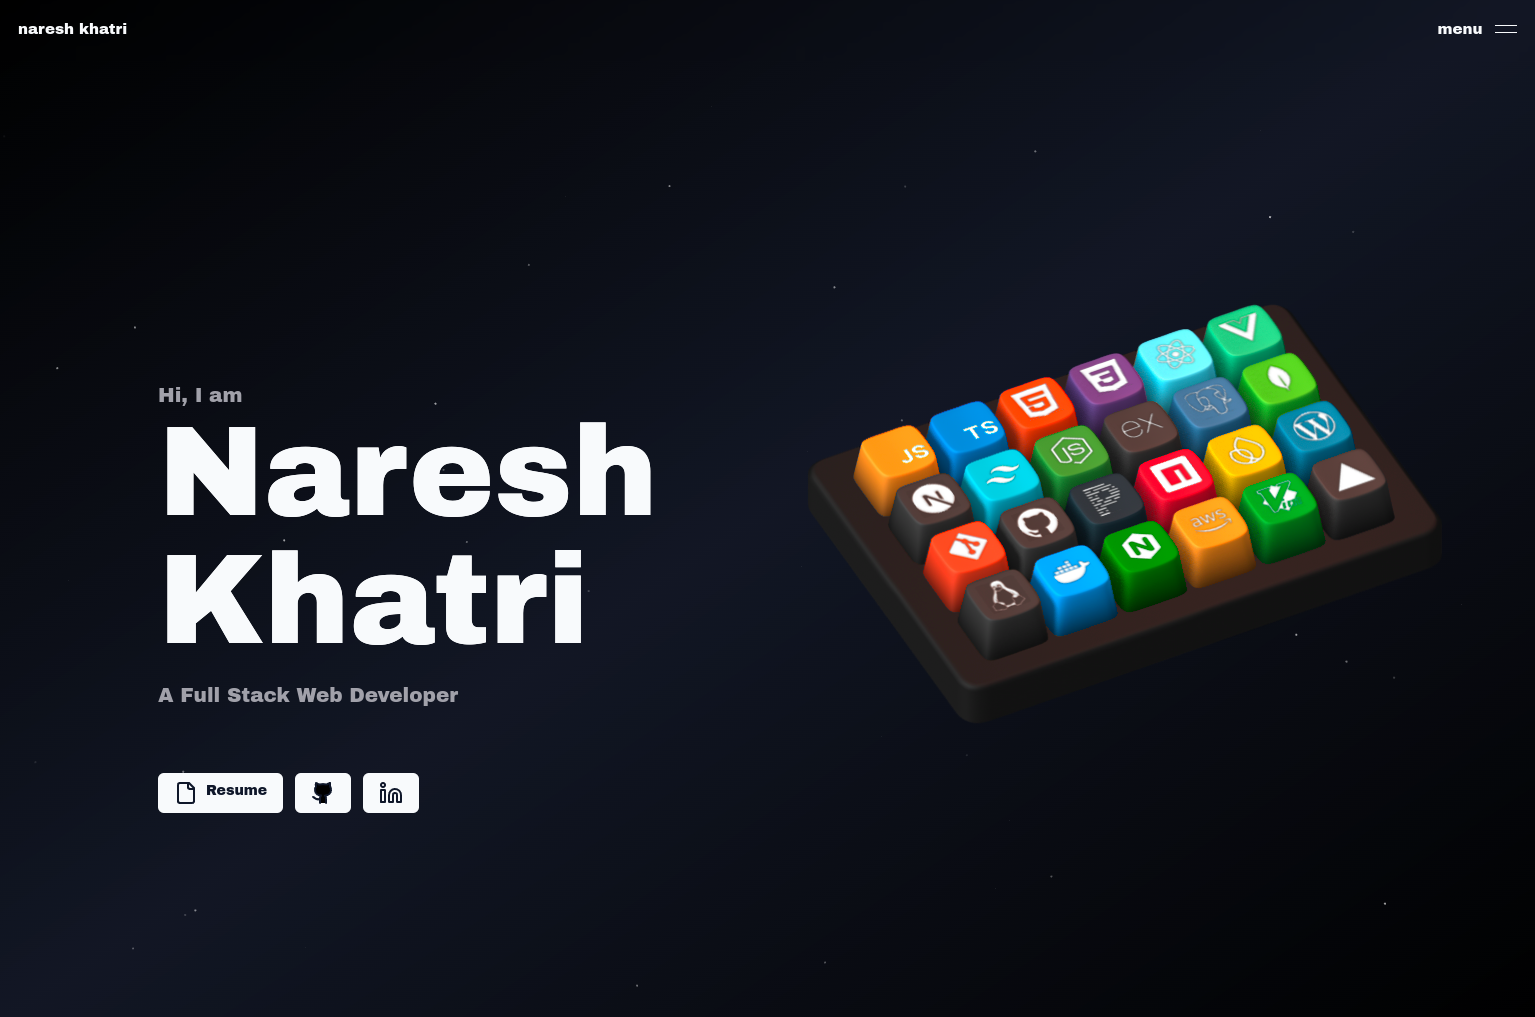
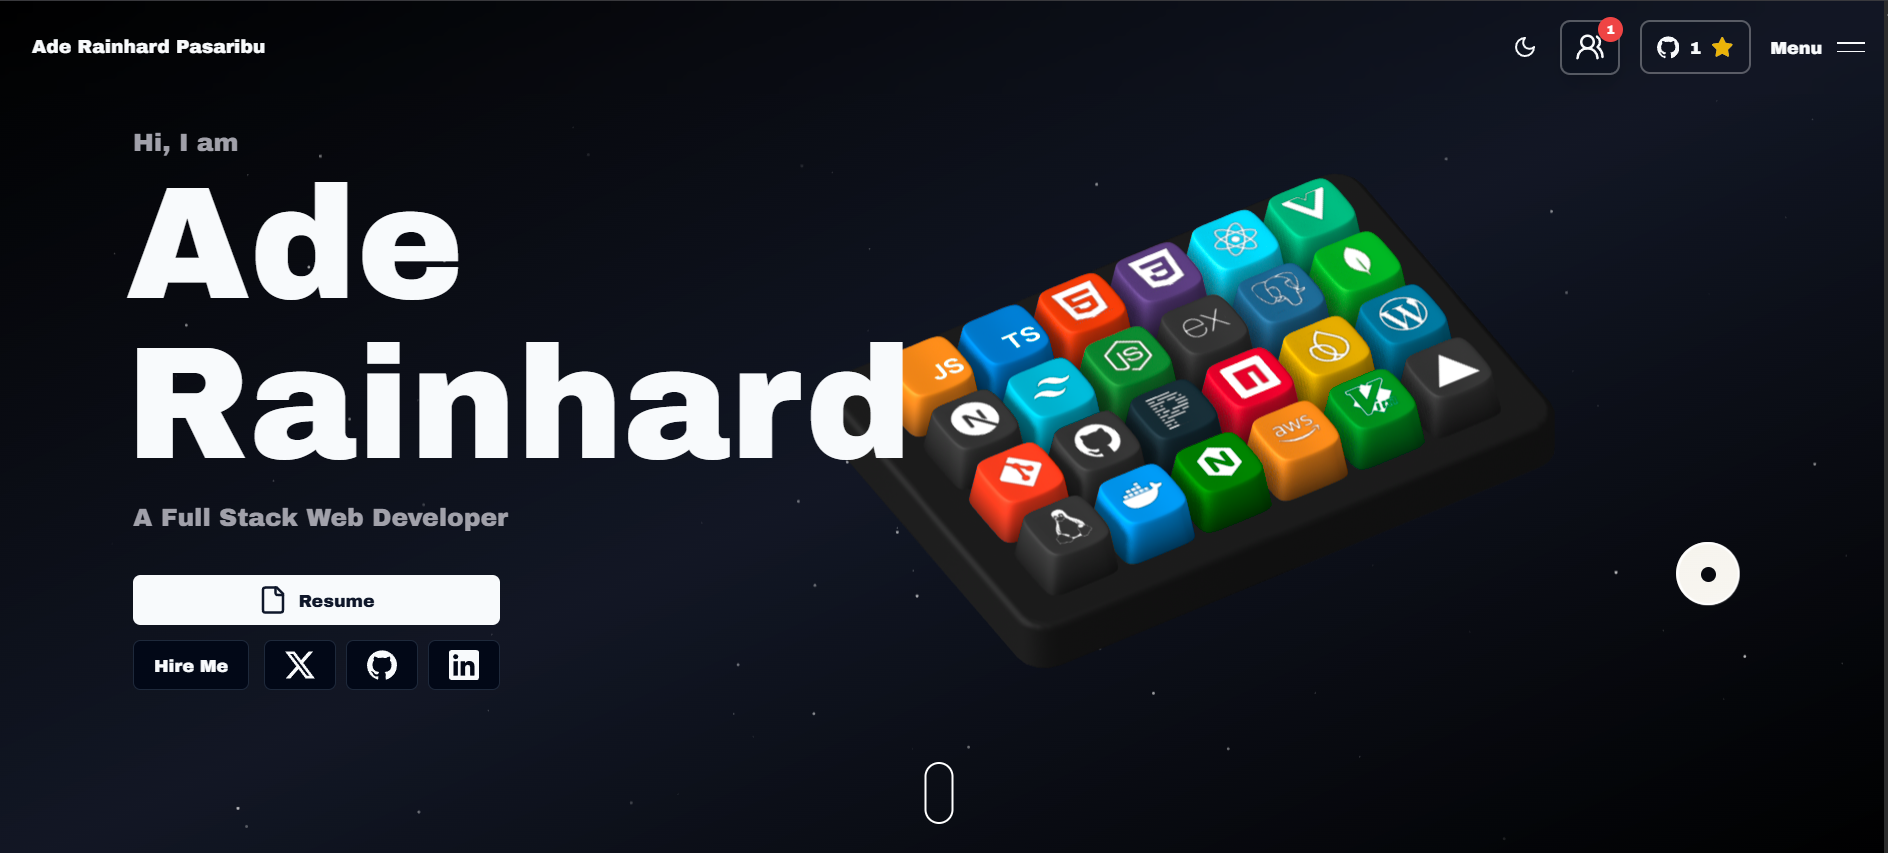
Update portfolio landing preview

diff --git a/src/components/sections/hero.tsx b/src/components/sections/hero.tsx
@@ -8,7 +8,6 @@ import {
   TooltipContent,
   TooltipTrigger,
 } from "@/components/ui/tooltip";
-import { usePreloader } from "../preloader";
 import { BlurIn, BoxReveal } from "../reveal-animations";
 import ScrollDownIcon from "../scroll-down-icon";
 import { SiGithub, SiLinkedin, SiX } from "react-icons/si";
@@ -17,7 +16,6 @@ import { config } from "@/data/config";
 import SectionWrapper from "../ui/section-wrapper";
 
 const HeroSection = () => {
-  const { isLoading } = usePreloader();
   const heroName = "Ade Rainhard";
 
   return (
@@ -31,7 +29,6 @@ const HeroSection = () => {
             "pt-28 sm:pb-16 md:p-20 lg:p-24 xl:p-28"
           )}
         >
-          {!isLoading && (
             <div className="flex flex-col">
               <div>
                 <BlurIn delay={0.7}>
@@ -140,7 +137,6 @@ const HeroSection = () => {
                 </div>
               </div>
             </div>
-          )}
         </div>
         <div className="grid col-span-1"></div>
       </div>

diff --git a/src/components/preloader/index.tsx b/src/components/preloader/index.tsx
@@ -49,6 +49,12 @@ function Preloader({ children, disabled = false }: PreloaderProps) {
   };
   const loadingPercentRef = useRef<{ value: number }>({ value: 0 });
   useEffect(() => {
+    if (disabled) {
+      setLoadingPercent(100);
+      setIsLoading(false);
+      return;
+    }
+
     loadingTween.current = gsap.to(loadingPercentRef.current, {
       value: 100,
       duration: LOADING_TIME,
@@ -60,7 +66,17 @@ function Preloader({ children, disabled = false }: PreloaderProps) {
         setIsLoading(false);
       },
     });
-  }, []);
+
+    const fallback = window.setTimeout(() => {
+      setLoadingPercent(100);
+      setIsLoading(false);
+    }, (LOADING_TIME + 0.5) * 1000);
+
+    return () => {
+      window.clearTimeout(fallback);
+      loadingTween.current?.kill();
+    };
+  }, [disabled]);
 
   return (
     <preloaderContext.Provider

diff --git a/src/data/projects.tsx b/src/data/projects.tsx
@@ -500,8 +500,8 @@ const projects: Project[] = [
     title: "My Portfolio",
     src: "/assets/projects-screenshots/portfolio/landing.png",
     screenshots: ["1.png"],
-    live: "http://nareshkhatri.vercel.app",
-    github:"https://github.com/Naresh-Khatri/Portfolio",
+    live: "https://github.com/Ashlxxy/Portfolio-Web",
+    github:"https://github.com/Ashlxxy/Portfolio-Web",
     skills: {
       frontend: [
         PROJECT_SKILLS.ts,
